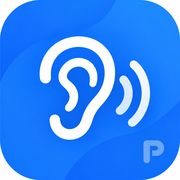
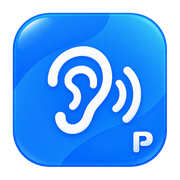
.

diff --git a/index.html b/index.html
@@ -4,18 +4,18 @@
   <meta charset="utf-8">
   <meta name="viewport" content="width=device-width,initial-scale=1">
   <title>파란 청취 실험 도구</title>
+  <link rel="stylesheet" href="common/styles.css">
   <meta name="theme-color" content="#1976e9">
   <link rel="icon" href="assets/favicon.ico" sizes="any">
   <link rel="icon" type="image/png" sizes="32x32" href="assets/favicon-32.png">
   <link rel="icon" type="image/png" sizes="16x16" href="assets/favicon-16.png">
   <link rel="apple-touch-icon" href="assets/apple-touch-icon.png">
   <link rel="manifest" href="site.webmanifest">
-  <link rel="stylesheet" href="common/styles.css">
 </head>
 <body class="participant-page">
   <main class="shell participant-shell">
     <header class="app-header participant-header">
-      <img class="brand-logo" src="assets/icon-192.png" alt="파란 청취 실험 도구 아이콘">
+      <img class="brand-logo" src="assets/brand-icon.png" alt="파란 청취 실험 도구 아이콘">
       <div class="brand-copy">
         <h1>파란 청취 실험 도구</h1>
         <p class="muted">실험 참가자 · 안내에 따라 음성을 듣고 응답해 주세요.</p>
@@ -65,11 +65,8 @@
       </div>
     </section>
 
-    <footer class="participant-footer">Voice Experiment · Participant</footer>
-  <footer class="muted small" style="text-align:center;margin:24px 0 8px">
-          파란 청취 실험 도구 · 참가자 v0.7
-        </footer>
-      </main>
+    <footer class="participant-footer">파란 청취 실험 도구 · 참가자 v0.9</footer>
+  </main>
   <script src="common/runner-core.js"></script>
   <script src="participant.js"></script>
 </body>

diff --git a/common/styles.css b/common/styles.css
@@ -57,15 +57,8 @@ button{transition:transform .12s ease,box-shadow .12s ease,border-color .12s eas
 @media(max-width:820px){.designer-grid{grid-template-columns:1fr}.file-preview-row{grid-template-columns:1fr}.analysis-toolbar{align-items:flex-start;flex-direction:column}.view-heading{align-items:flex-start;flex-direction:column}.view-heading .large-action{width:100%}.main-nav{position:static}.main-nav-btn{padding:11px 7px;font-size:13px}}
 @media(max-width:620px){.participant-start-grid{grid-template-columns:1fr}.participant-setup-card,.runner-stage{padding:20px}.main-nav{grid-template-columns:1fr}.main-nav-btn{justify-content:flex-start}.participant-shell{padding-top:24px}.participant-header h1{font-size:26px}.runner-stage .option-button{min-height:68px}.kpi-grid{grid-template-columns:1fr 1fr}}
 
-/* v0.7 brand icon */
-.brand-logo{
-  width:46px;
-  height:46px;
-  border-radius:14px;
-  object-fit:cover;
-  flex:0 0 auto;
-  box-shadow:0 8px 22px rgba(31,78,121,.18);
-}
-@media(max-width:620px){
-  .brand-logo{width:42px;height:42px;border-radius:13px}
-}
+/* brand icon */
+.brand-logo{width:48px;height:48px;border-radius:14px;object-fit:contain;display:block;flex:0 0 auto;filter:drop-shadow(0 6px 16px rgba(31,78,121,.18));}
+.brand-block,.participant-header{display:flex;align-items:center;gap:14px;}
+.brand-copy{display:block;}
+@media(max-width:620px){.brand-logo{width:42px;height:42px;border-radius:12px}}

diff --git a/README.md b/README.md
@@ -1,75 +1,23 @@
 # 파란 청취 실험 도구 — 참가자용
 
-이 저장소는 **파란 청취 실험 도구의 참가자 전용 GitHub Pages**입니다.
+GitHub Pages 배포용 참가자 패키지입니다.
 
 ## 포함 기능
-
 - 참가자 번호 입력
 - 실험 프로젝트 열기
-- 프로젝트의 `*_experiment.json` 읽기
-- 로컬 음성 파일 확인
-- 새 실험 시작 시 문제 순서 무작위화
-- 첫 음성 듣기
-- 문제 다시 듣기
-- 하나 전으로 올라가기
-- 응답 선택 즉시 다음 음성 재생
-- 인식 불가 응답
-- 진행 상태 자동 저장
-- 이어서 하기
-- 처음부터 다시 시작 시 새 랜덤 순서
-- 실험 완료 후 결과 JSON 저장
+- 음성 듣기와 응답
+- 다시 듣기 / 이전 문제
+- 자동 저장 / 이어서 하기
+- 결과 JSON 저장
 
-## 포함하지 않는 기능
+## 아이콘 자산
+`assets/` 안의 아이콘 PNG와 favicon은 **투명 배경으로 다시 생성**했습니다.
+모서리 알파값을 검사해 투명 처리를 확인했습니다.
 
-- 실험 설계
-- 정답
-- master.json 처리
-- 결과 통계
-- Excel 분석
-
-참가자 웹페이지에는 **정답 정보가 포함되지 않습니다.**
-
-## 프로젝트 폴더 예
-
-```text
-vot_2026/
-├─ vot_2026_experiment.json
-├─ F01.wav
-├─ F02.wav
-├─ F03.wav
-└─ ...
-```
-
-참가자는 웹페이지에서 이 프로젝트 폴더를 엽니다.
-
-## GitHub Pages 설정
-
-저장소 이름 예:
-
-`paran-listening-experiment-participant`
-
-GitHub에서:
-
+## GitHub Pages
 - Settings → Pages
-- Source: `Deploy from a branch`
+- Source: Deploy from a branch
 - Branch: `main`
 - Folder: `/ (root)`
 
-배포 후 주소 예:
-
-`https://사용자명.github.io/paran-listening-experiment-participant/`
-
-## 개인정보/파일 처리
-
-음성 파일은 참가자의 컴퓨터에서 로컬로 읽습니다.
-음성 파일 자체는 GitHub Pages나 별도 서버로 업로드되지 않습니다.
-참가자가 설계자에게 전달하는 것은 실험 완료 후 생성되는 결과 JSON입니다.
-
-## v0.7 아이콘 적용
-
-- 브라우저 탭 favicon
-- 모바일 홈 화면용 Apple Touch Icon
-- PWA/Web App 아이콘 192px / 512px
-- 프로그램 상단 로고
-- `site.webmanifest` 포함
-
+배포 주소 예: `https://사용자명.github.io/paran-listening-experiment-participant/`
